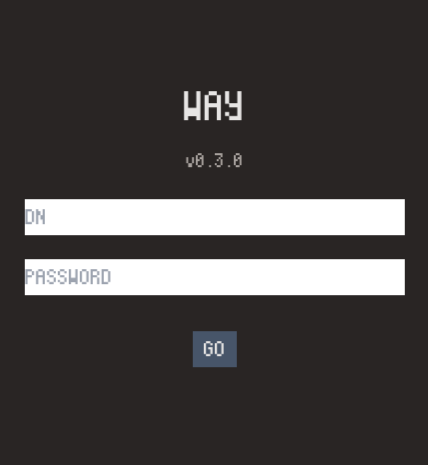
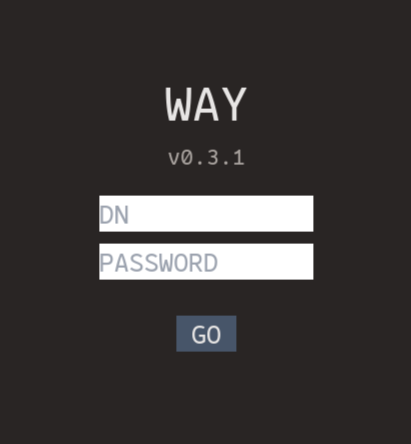
Update README

diff --git a/README.md b/README.md
@@ -30,7 +30,7 @@ This app works as the bridge between proxy server and LDAP server, using JWT coo
      url: https://app2.domain.com
    ```
 
-2. `sudo docker run -d --env-file /path/to/.env -v /path/to/config.yml:/app/config.yml --network="ldap_server_name" --name way -p 9090:9090 kyoheiudev/way-rs:0.3.0`
+2. `sudo docker run -d --env-file /path/to/.env -v /path/to/config.yml:/app/config.yml --network="ldap_server_name" --name way -p 9090:9090 kyoheiudev/way-rs:0.3.1`
 
    ```sh
    # health check
